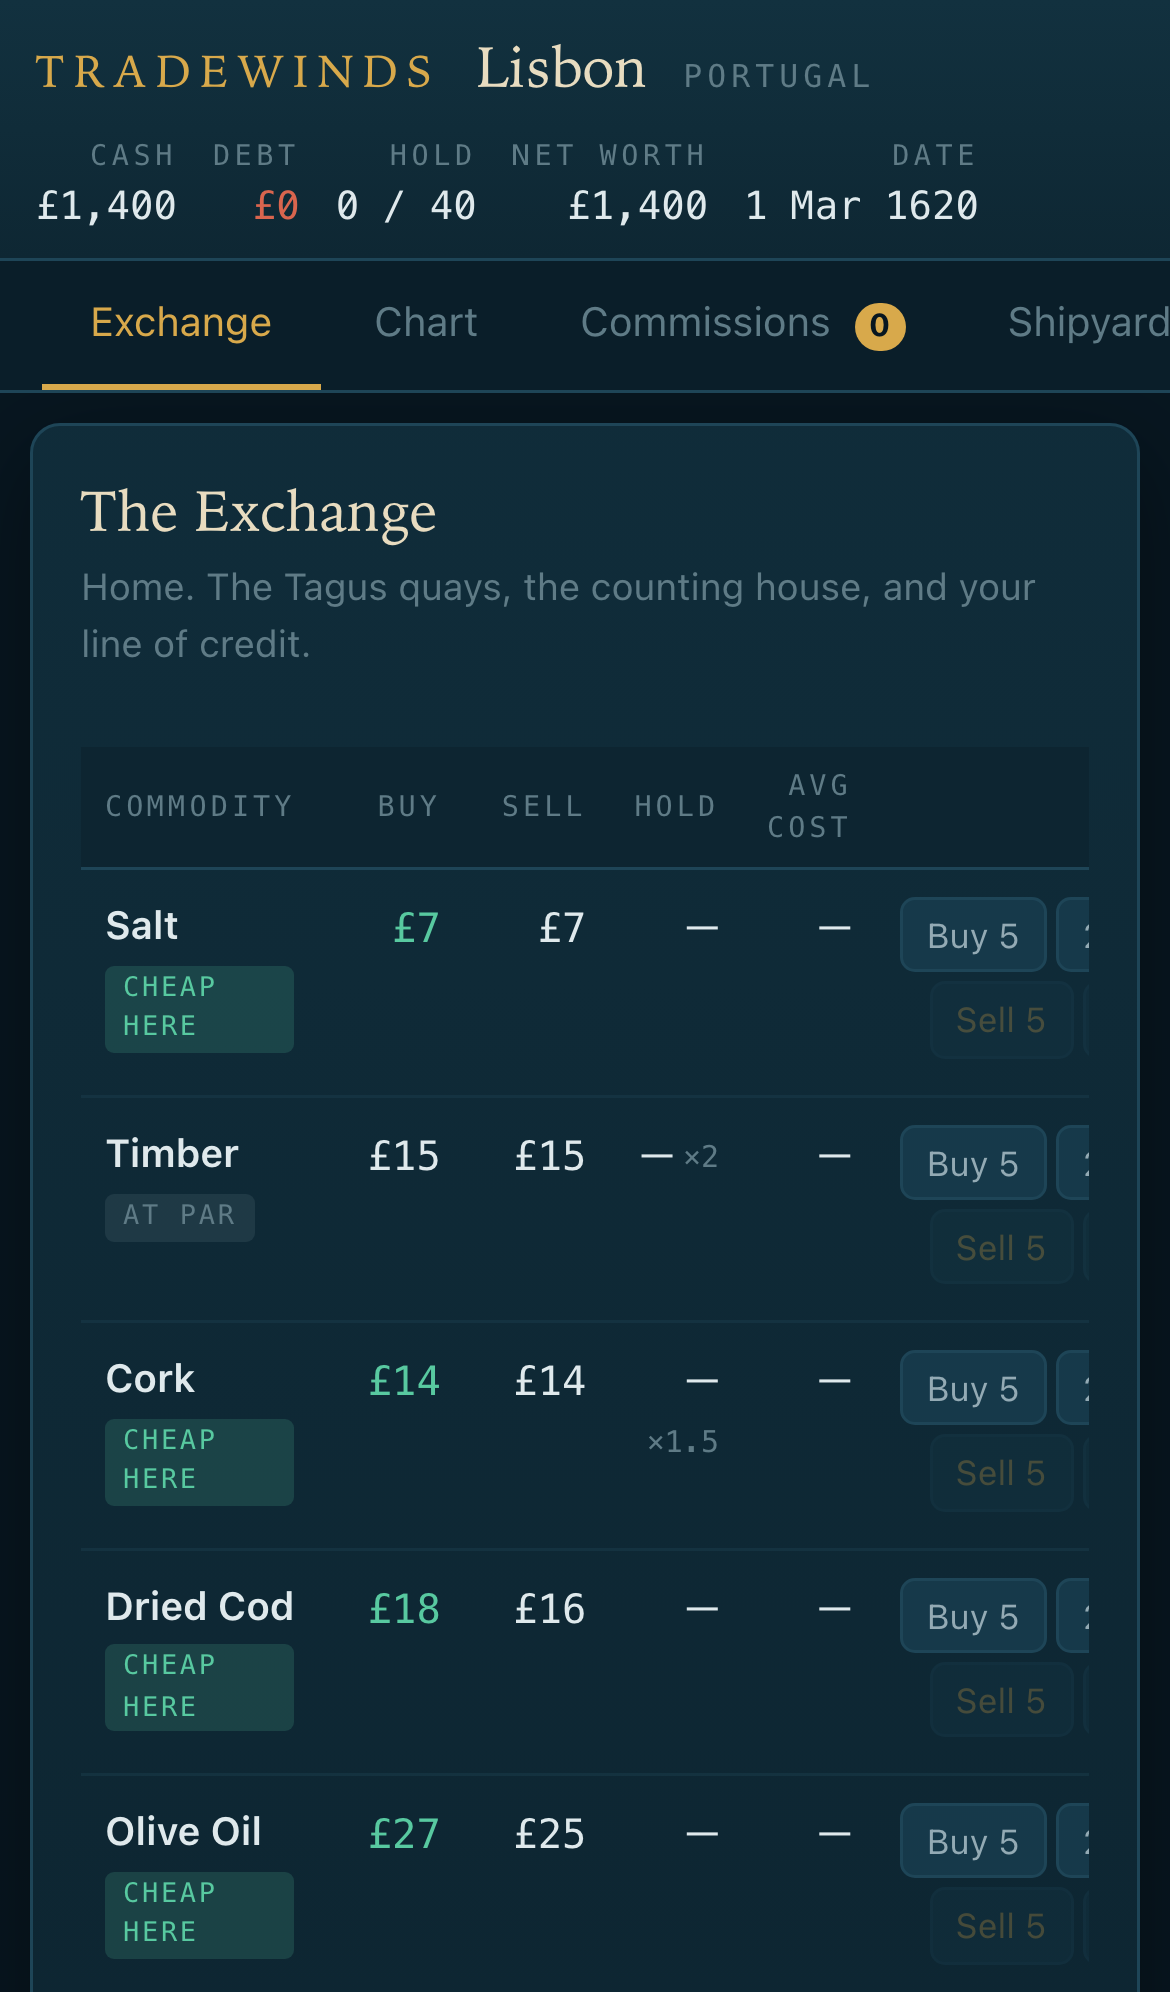
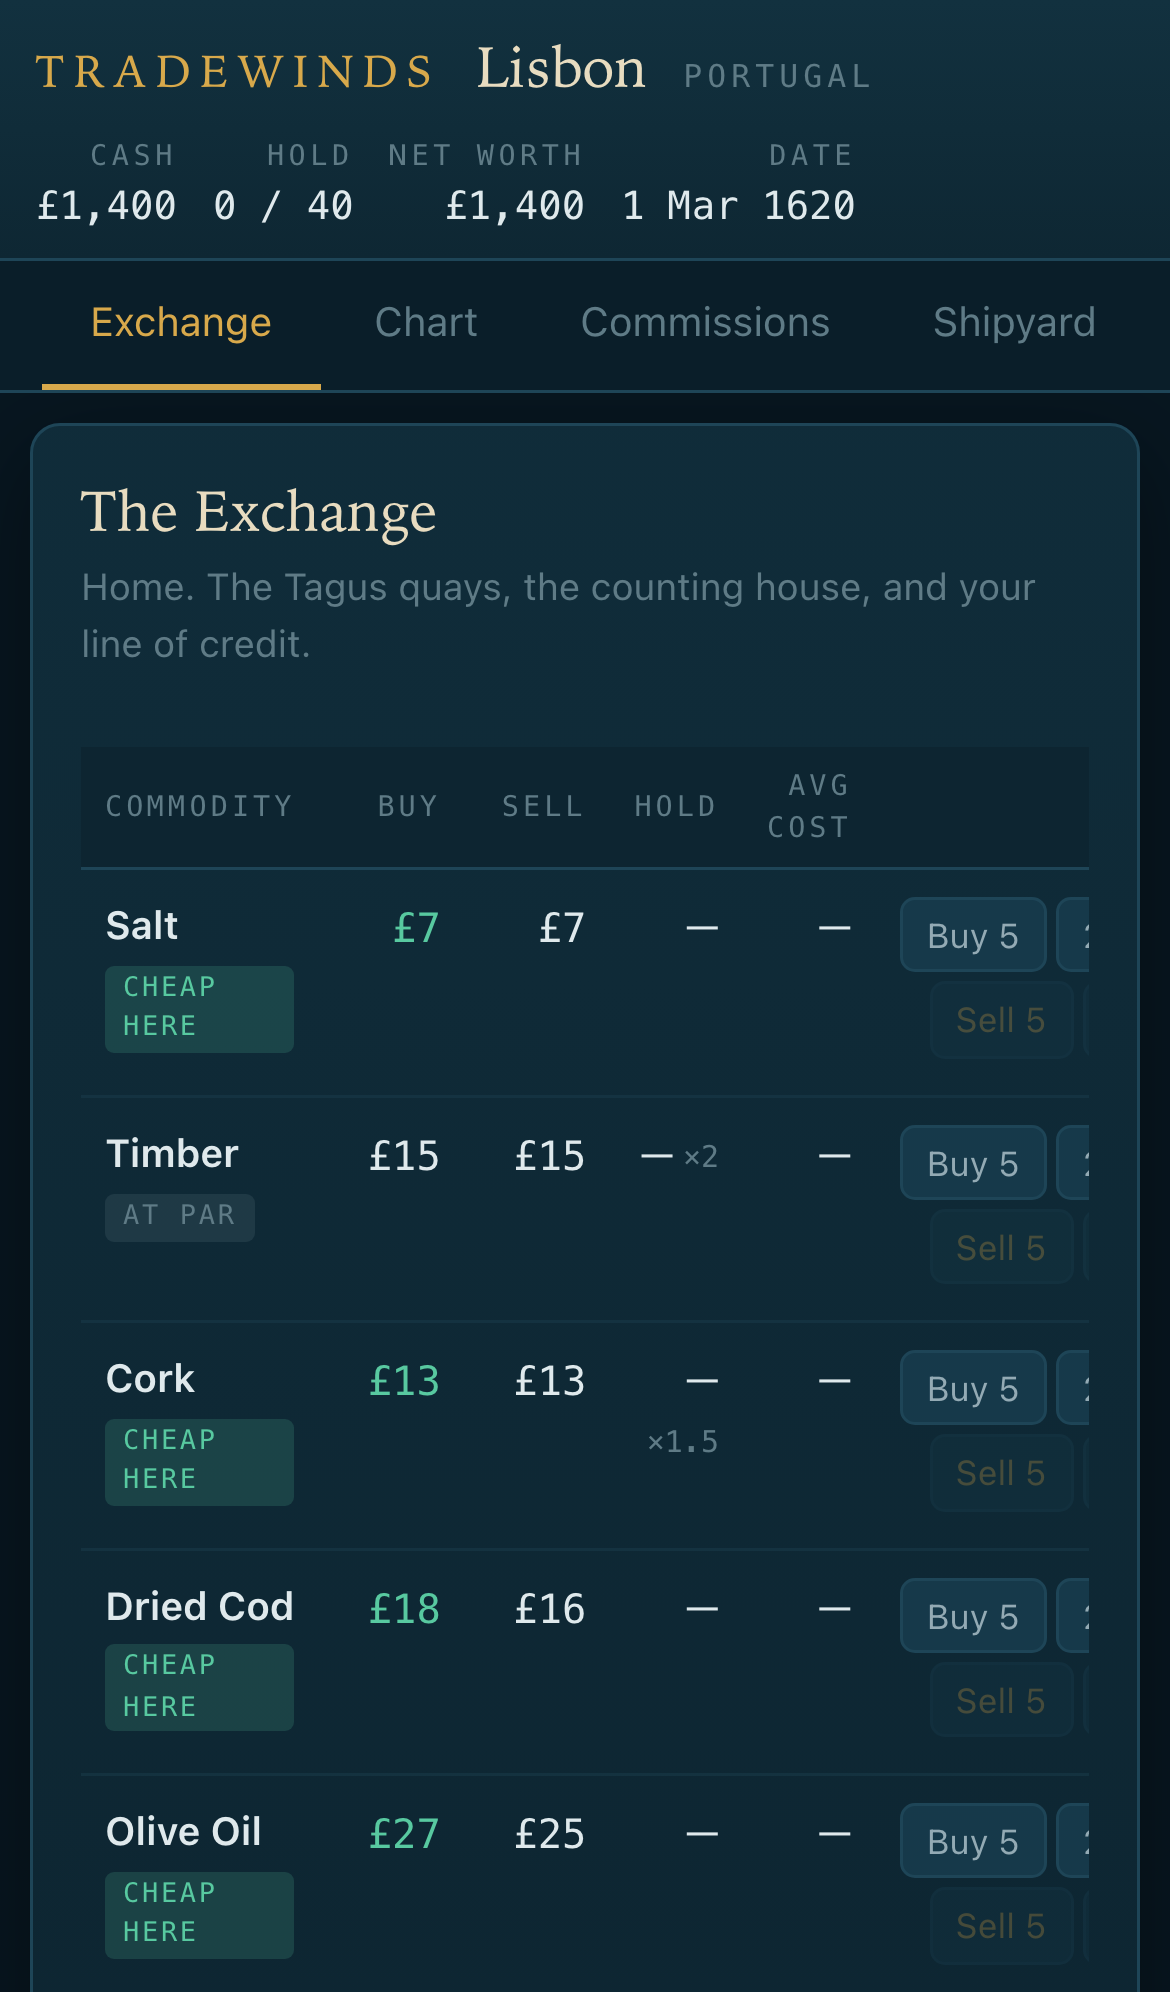
Hide the debt readout when nothing is owed
display:flex on .stat beat the hidden attribute's UA display:none, so the
topbar sat there reading DEBT £0. Caught by looking at a screenshot, not by
an assertion; now has one.

diff --git a/styles.css b/styles.css
@@ -136,6 +136,9 @@ html, body {
 }
 .topbar-right { display: flex; gap: 20px; flex-wrap: wrap; }
 .stat { display: flex; flex-direction: column; align-items: flex-end; }
+/* display:flex beats the hidden attribute's UA display:none, so the debt
+   readout would sit there reading £0 forever without this. */
+.stat[hidden], [hidden] { display: none !important; }
 .stat-label {
   font-family: var(--mono); font-size: 9.5px; letter-spacing: .16em;
   text-transform: uppercase; color: var(--ink-faint);
